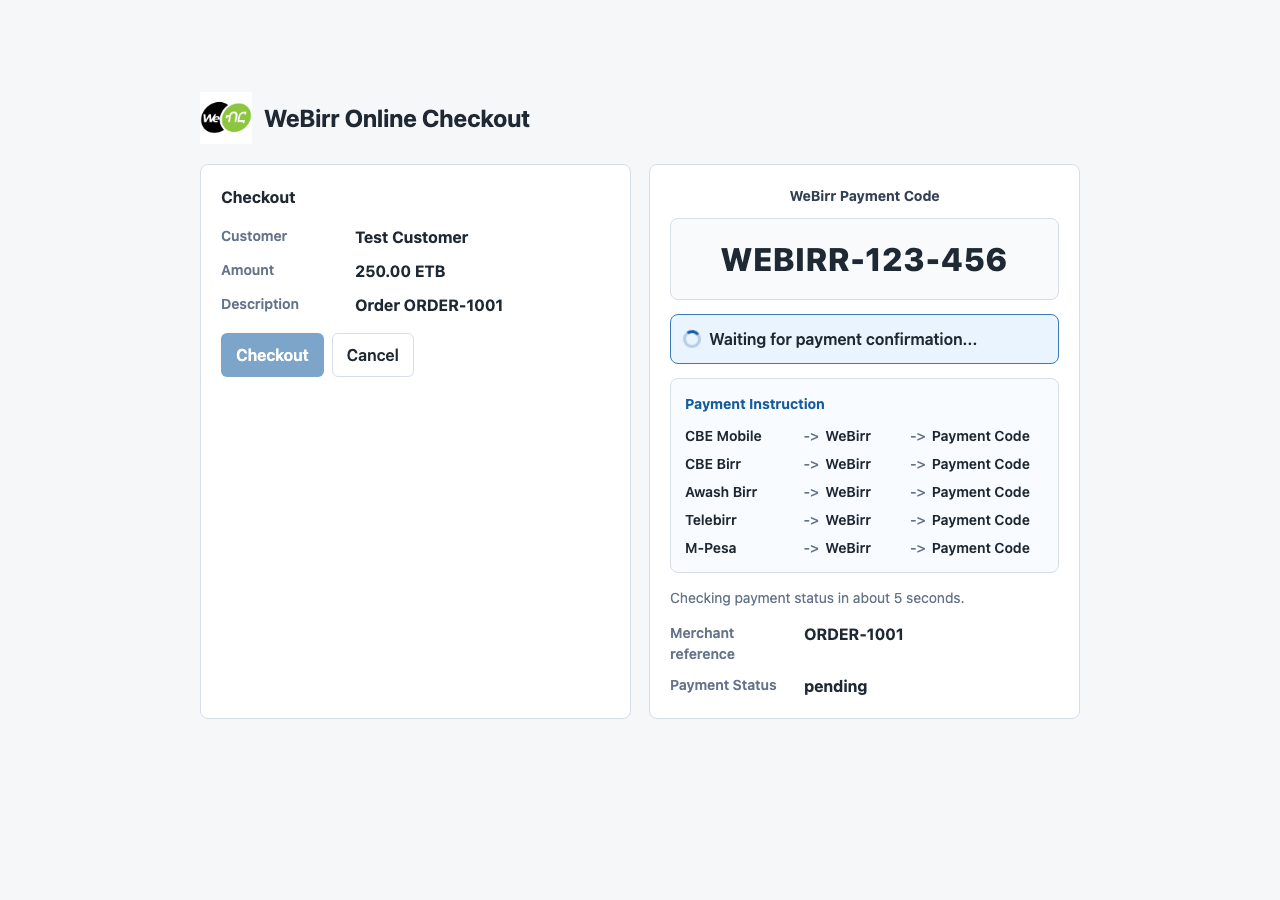
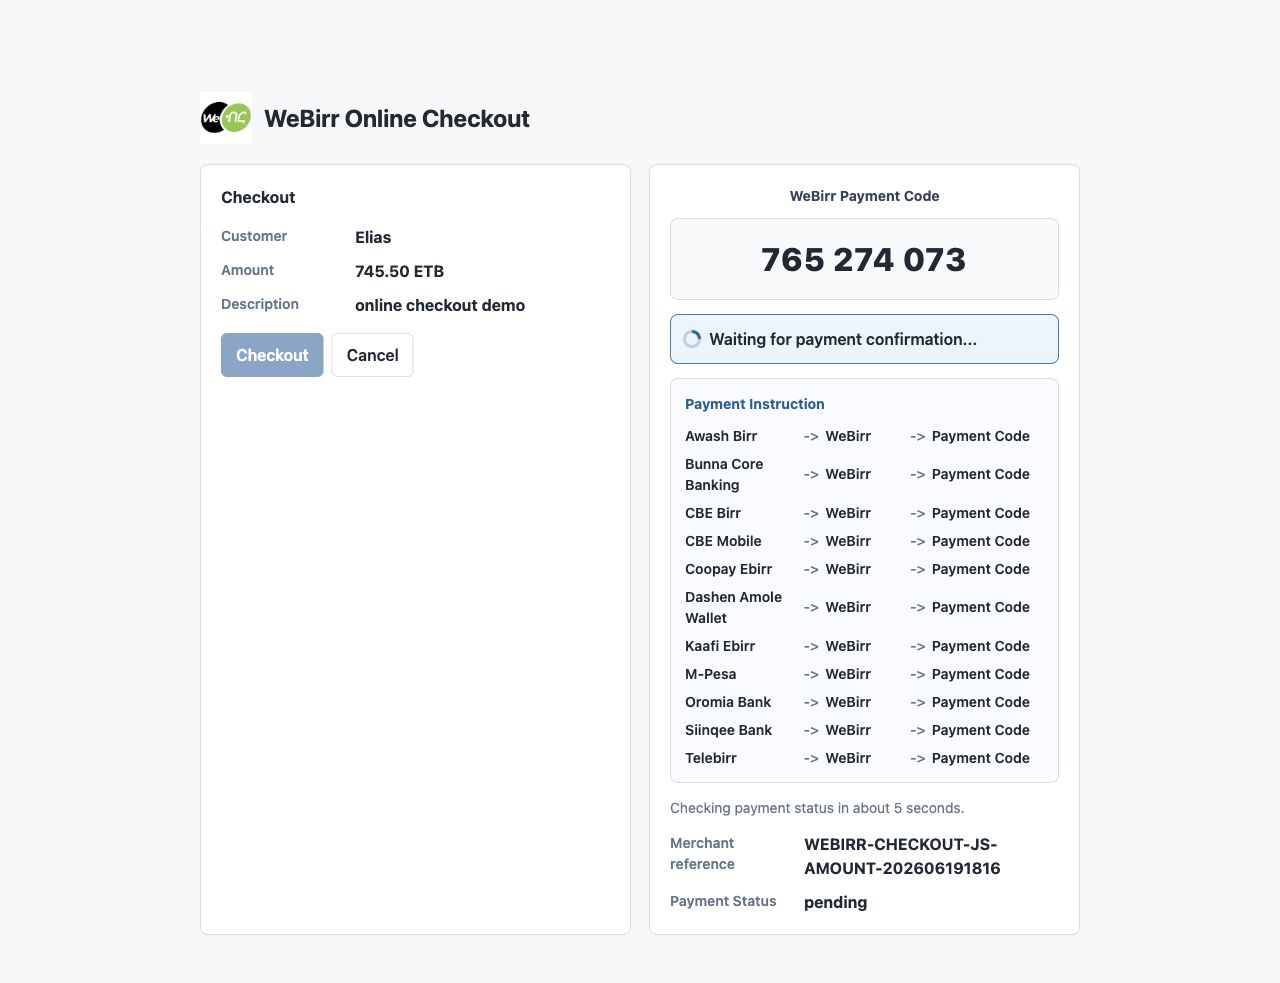
examples

diff --git a/examples/nextjs-mock/lib/webirr-checkout.ts b/examples/nextjs-mock/lib/webirr-checkout.ts
@@ -35,13 +35,12 @@ function resolveExamplePayable(merchantReference: string): StoredPayable {
 
   const payable: StoredPayable = {
     merchantReference,
-    amount: "250.00",
+    amount: "745.50",
     currency: "ETB",
-    customerName: "Test Customer",
-    customerCode: "CUST-1001",
-    customerPhone: "0911000000",
-    description: `Order ${merchantReference}`,
-    billTime: "2026-06-18 10:00",
+    customerName: "Elias",
+    customerCode: "ELIAS-DEMO",
+    customerPhone: "",
+    description: "online checkout demo",
     successUrl: "/success",
     cancelUrl: "/"
   };
@@ -131,8 +130,8 @@ class MockGateway implements WeBirrGatewayClient {
 class LiveWeBirrGateway implements WeBirrGatewayClient {
   private readonly client: SdkWeBirrClient;
 
-  constructor(merchantId: string, apiKey: string) {
-    this.client = new webirrSdk.WeBirrClient(merchantId, apiKey, true);
+  constructor(merchantId: string, apiKey: string, gatewayBaseUrl?: string) {
+    this.client = new webirrSdk.WeBirrClient(merchantId, apiKey, true, createGatewayHttpClient(gatewayBaseUrl));
   }
 
   async createBill(bill: WeBirrBillRequest): Promise<ApiResponse<string>> {
@@ -160,6 +159,42 @@ class LiveWeBirrGateway implements WeBirrGatewayClient {
   }
 }
 
+type SdkHttpRequest = {
+  method?: string;
+  url: string;
+  headers?: Record<string, string>;
+  data?: unknown;
+};
+
+function createGatewayHttpClient(gatewayBaseUrl?: string) {
+  const baseUrl = gatewayBaseUrl?.trim().replace(/\/+$/, "");
+  if (!baseUrl) {
+    return null;
+  }
+
+  return {
+    async request(request: SdkHttpRequest) {
+      const sourceUrl = new URL(request.url);
+      const targetUrl = new URL(`${baseUrl}/${sourceUrl.pathname.replace(/^\/+/, "")}`);
+      targetUrl.search = sourceUrl.search;
+
+      const response = await fetch(targetUrl, {
+        method: request.method || "get",
+        headers: request.headers,
+        body: request.data === undefined ? undefined : JSON.stringify(request.data)
+      });
+      const text = await response.text();
+      const data = text ? JSON.parse(text) : null;
+
+      return {
+        status: response.status,
+        statusText: response.statusText,
+        data
+      };
+    }
+  };
+}
+
 function createGateway(): WeBirrGatewayClient {
   if (process.env.WEBIRR_CHECKOUT_MODE !== "live") {
     return new MockGateway();
@@ -167,12 +202,13 @@ function createGateway(): WeBirrGatewayClient {
 
   const merchantId = process.env.WEBIRR_TEST_ENV_MERCHANT_ID || process.env.WEBIRR_MERCHANT_ID;
   const apiKey = process.env.WEBIRR_TEST_ENV_API_KEY || process.env.WEBIRR_API_KEY;
+  const gatewayBaseUrl = process.env.WEBIRR_GATEWAY_BASE_URL;
 
   if (!merchantId || !apiKey) {
     throw new Error("Live WeBirr TestEnv mode requires WEBIRR_TEST_ENV_MERCHANT_ID and WEBIRR_TEST_ENV_API_KEY.");
   }
 
-  return new LiveWeBirrGateway(merchantId, apiKey);
+  return new LiveWeBirrGateway(merchantId, apiKey, gatewayBaseUrl);
 }
 
 const checkout = createWeBirrCheckout({

diff --git a/examples/nextjs-mock/app/success/page.tsx b/examples/nextjs-mock/app/success/page.tsx
@@ -1,4 +1,19 @@
-export default function SuccessPage() {
+type SuccessPageProps = {
+  searchParams?: Promise<Record<string, string | string[] | undefined>>;
+};
+
+function firstParam(value: string | string[] | undefined): string {
+  if (Array.isArray(value)) {
+    return value[0] || "";
+  }
+  return value || "";
+}
+
+export default async function SuccessPage({ searchParams }: SuccessPageProps) {
+  const params = searchParams ? await searchParams : {};
+  const paymentReference = firstParam(params.paymentReference);
+  const paymentIssuer = firstParam(params.paymentIssuer);
+
   return (
     <main className="success-shell">
       <section className="success">
@@ -9,10 +24,18 @@ export default function SuccessPage() {
             <div>
               <h2>Payment Confirmed</h2>
               <dl className="webirr-record">
-                <dt>Payment Reference</dt>
-                <dd>Verified by merchant backend</dd>
-                <dt>Paid Via</dt>
-                <dd>WeBirr</dd>
+                {paymentReference ? (
+                  <>
+                    <dt>Payment Reference</dt>
+                    <dd>{paymentReference}</dd>
+                  </>
+                ) : null}
+                {paymentIssuer ? (
+                  <>
+                    <dt>Paid Via</dt>
+                    <dd>{paymentIssuer}</dd>
+                  </>
+                ) : null}
               </dl>
             </div>
           </div>

diff --git a/packages/core/src/index.ts b/packages/core/src/index.ts
@@ -61,6 +61,9 @@ export interface WeBirrPaymentDetail {
   paymentDate?: string;
   time?: string;
   bankID?: string;
+  bankName?: string;
+  paymentIssuer?: string;
+  issuerName?: string;
   amount?: string | number;
   wbcCode?: string;
   updateTimeStamp?: string;
@@ -456,10 +459,33 @@ function toPaymentResult(paymentCode: string, status: WeBirrPaymentStatus): WeBi
     paymentCode,
     paymentStatus: 2,
     paymentReference: status.data?.paymentReference,
-    paymentIssuer: status.data?.bankID,
+    paymentIssuer: extractPaymentIssuer(status.data),
     paidAt: status.data?.paymentDate || status.data?.time,
     raw: status
   };
+}
+
+function extractPaymentIssuer(detail: WeBirrPaymentDetail | null | undefined): string | undefined {
+  if (!detail) {
+    return undefined;
+  }
+
+  for (const key of ["bankName", "paymentIssuer", "issuerName", "bankID"]) {
+    const value = comparable(detail[key]);
+    if (value) {
+      return formatPaymentIssuer(value);
+    }
+  }
+
+  return undefined;
+}
+
+function formatPaymentIssuer(value: string): string {
+  return value
+    .split(/[\s_-]+/)
+    .filter(Boolean)
+    .map((word) => word.length <= 4 ? word.toUpperCase() : word.charAt(0).toUpperCase() + word.slice(1).toLowerCase())
+    .join(" ");
 }
 
 function toViewModel(

diff --git a/packages/js/src/index.test.ts b/packages/js/src/index.test.ts
@@ -1,6 +1,7 @@
 import assert from "node:assert/strict";
 import { describe, it } from "node:test";
 import {
+  buildReceiptUrl,
   buildStatusUrl,
   mountWebirrCheckout,
   requestCheckout,
@@ -58,6 +59,33 @@ describe("checkout browser helpers", () => {
     const url = buildStatusUrl("/api/webirr/status?existing=1", "ORDER-1001");
 
     assert.equal(url, "https://merchant.test/api/webirr/status?existing=1&merchantReference=ORDER-1001");
+    Object.defineProperty(globalThis, "window", {
+      configurable: true,
+      value: originalWindow
+    });
+  });
+
+  it("builds receipt URL with payment confirmation details", () => {
+    const originalWindow = globalThis.window;
+    Object.defineProperty(globalThis, "window", {
+      configurable: true,
+      value: { location: { href: "https://merchant.test/checkout" } }
+    });
+
+    const url = buildReceiptUrl("/success?existing=1", {
+      merchantReference: "ORDER-1001",
+      paymentCode: "CODE-1",
+      status: "Paid",
+      paymentStatus: 2,
+      paymentReference: "TX123",
+      paymentIssuer: "CBE Mobile",
+      paidAt: "2026-06-19 12:00"
+    });
+
+    assert.equal(
+      url,
+      "https://merchant.test/success?existing=1&paymentReference=TX123&paymentIssuer=CBE+Mobile&paidAt=2026-06-19+12%3A00"
+    );
     Object.defineProperty(globalThis, "window", {
       configurable: true,
       value: originalWindow

diff --git a/examples/nextjs-mock/app/checkout-widget.tsx b/examples/nextjs-mock/app/checkout-widget.tsx
@@ -3,12 +3,20 @@
 import { mountWebirrCheckout, WebirrCheckoutController } from "@webirr/checkout-js";
 import { useEffect, useRef, useState } from "react";
 
-const defaultMerchantReference = process.env.NEXT_PUBLIC_WEBIRR_EXAMPLE_REFERENCE || "ORDER-1001";
+const configuredMerchantReference = process.env.NEXT_PUBLIC_WEBIRR_EXAMPLE_REFERENCE;
+
+function todayMerchantReference(): string {
+  const now = new Date();
+  const yyyy = now.getFullYear();
+  const mm = `${now.getMonth() + 1}`.padStart(2, "0");
+  const dd = `${now.getDate()}`.padStart(2, "0");
+  return `WEBIRR-CHECKOUT-JS-${yyyy}${mm}${dd}`;
+}
 
 export default function CheckoutWidget() {
   const containerRef = useRef<HTMLDivElement | null>(null);
   const controllerRef = useRef<WebirrCheckoutController | null>(null);
-  const [merchantReference, setMerchantReference] = useState(defaultMerchantReference);
+  const [merchantReference, setMerchantReference] = useState(configuredMerchantReference || todayMerchantReference);
   const [started, setStarted] = useState(false);
   const [starting, setStarting] = useState(false);
 
@@ -68,11 +76,11 @@ export default function CheckoutWidget() {
           <div className="webirr-panel-title">Checkout</div>
           <dl className="webirr-summary">
             <dt>Customer</dt>
-            <dd>Test Customer</dd>
+            <dd>Elias</dd>
             <dt>Amount</dt>
-            <dd>250.00 ETB</dd>
+            <dd>745.50 ETB</dd>
             <dt>Description</dt>
-            <dd>Order {merchantReference}</dd>
+            <dd>online checkout demo</dd>
           </dl>
           <div className="webirr-button-row">
             <button

diff --git a/packages/js/src/index.ts b/packages/js/src/index.ts
@@ -58,6 +58,20 @@ export function buildStatusUrl(statusUrl: string, merchantReference: string): st
   return url.toString();
 }
 
+export function buildReceiptUrl(receiptUrl: string, status: CheckoutStatusResult): string {
+  const url = new URL(receiptUrl, window.location.href);
+  if (status.paymentReference) {
+    url.searchParams.set("paymentReference", status.paymentReference);
+  }
+  if (status.paymentIssuer) {
+    url.searchParams.set("paymentIssuer", status.paymentIssuer);
+  }
+  if (status.paidAt) {
+    url.searchParams.set("paidAt", status.paidAt);
+  }
+  return url.toString();
+}
+
 export function mountWebirrCheckout(
   container: string | HTMLElement,
   options: WebirrCheckoutDropInOptions
@@ -100,7 +114,7 @@ export function mountWebirrCheckout(
         renderPaid(rootElement, status);
         const redirectUrl = status.receiptUrl || options.successUrl || checkout?.successUrl;
         if (redirectUrl) {
-          window.location.href = redirectUrl;
+          window.location.href = buildReceiptUrl(redirectUrl, status);
         }
       } else {
         renderPending(rootElement, checkout, refresh);

diff --git a/examples/nextjs-mock/README.md b/examples/nextjs-mock/README.md
@@ -51,5 +51,25 @@ For browser testing, you can also pass a fresh reference at runtime:
 http://localhost:3000/?merchantReference=NEXTJS-LIVE-20260618000000
 ```
 
+## Docker Compose
+
+The example directory includes a Docker Compose file for running the checkout
+against WeBirr TestEnv. It requires only the TestEnv merchant id and API key:
+
+```bash
+WEBIRR_TEST_ENV_MERCHANT_ID=replace-with-testenv-merchant-id \
+WEBIRR_TEST_ENV_API_KEY=replace-with-testenv-api-key \
+docker compose up
+```
+
+The app will be available at `http://localhost:3100` by default. Use
+`WEBIRR_CHECKOUT_EXAMPLE_PORT` to choose another local port, and optionally use
+`NEXT_PUBLIC_WEBIRR_EXAMPLE_REFERENCE` when you need a specific merchant
+reference for repeatable screenshots or recovery testing.
+
+When testing against a restored local gateway database, set
+`WEBIRR_GATEWAY_BASE_URL` to the local gateway URL. From Docker on macOS, use
+`http://host.docker.internal:8080`.
+
 This example does not use browser-side WeBirr credentials and does not call
 WeBirr merchant APIs from the browser.